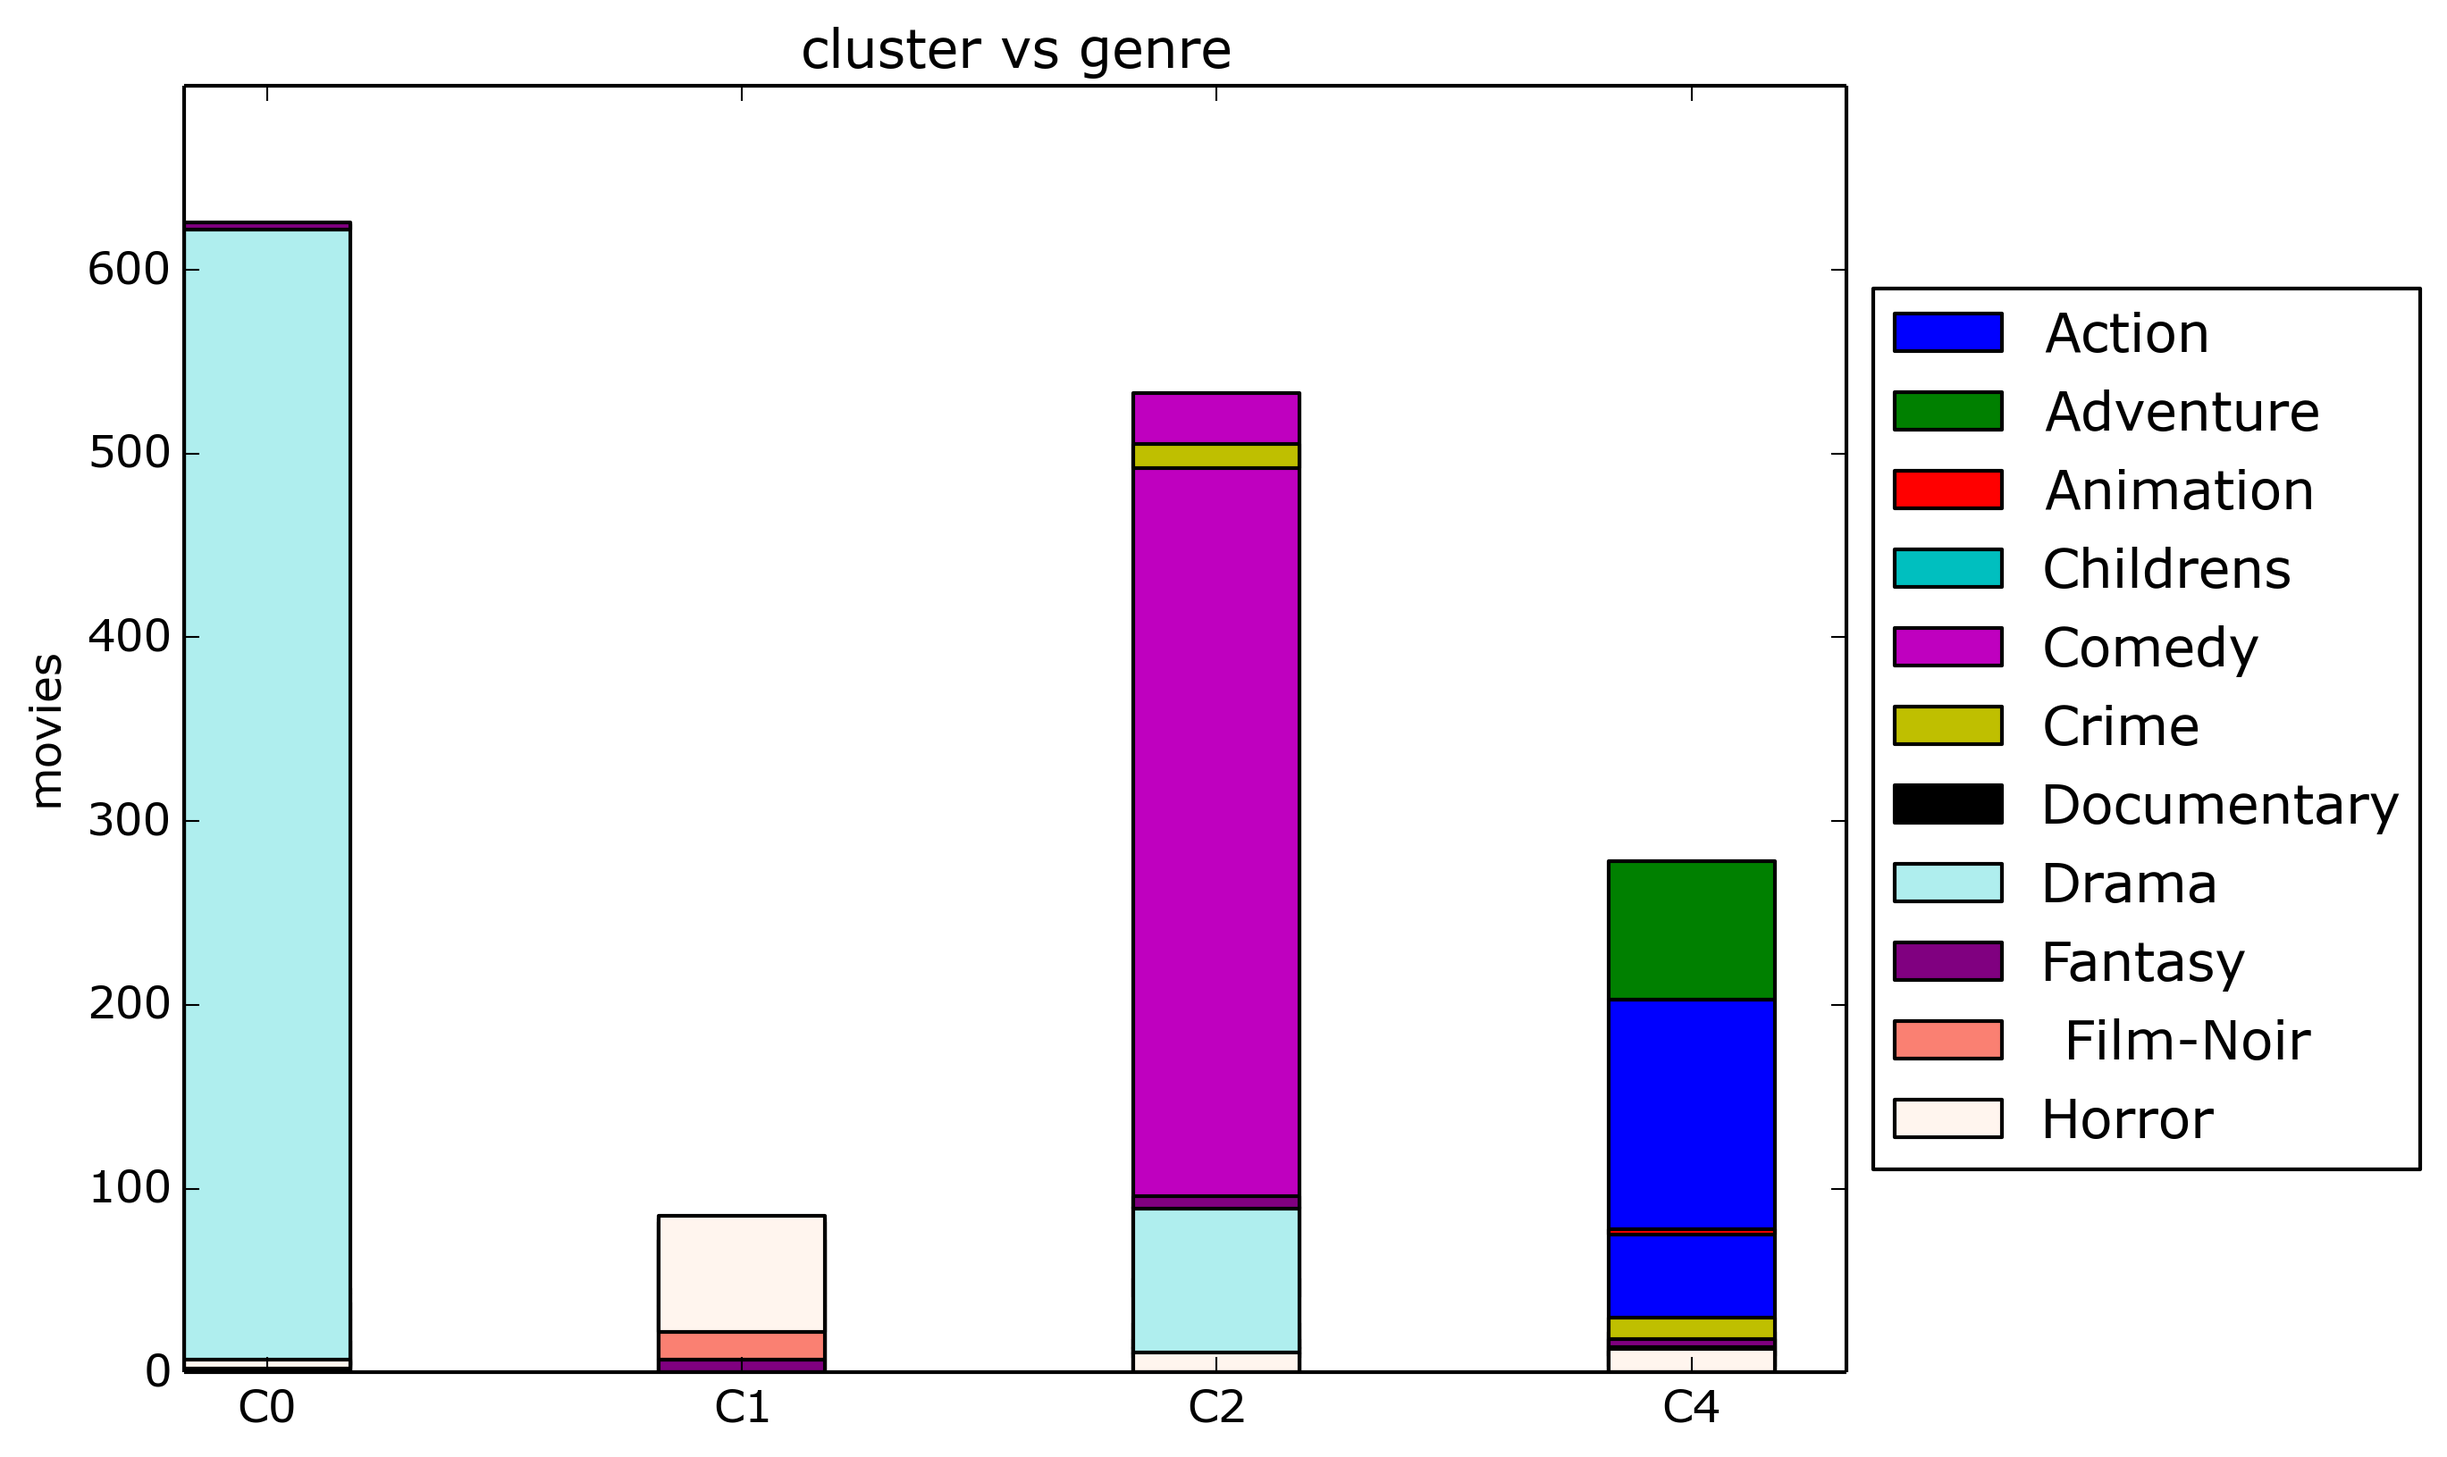
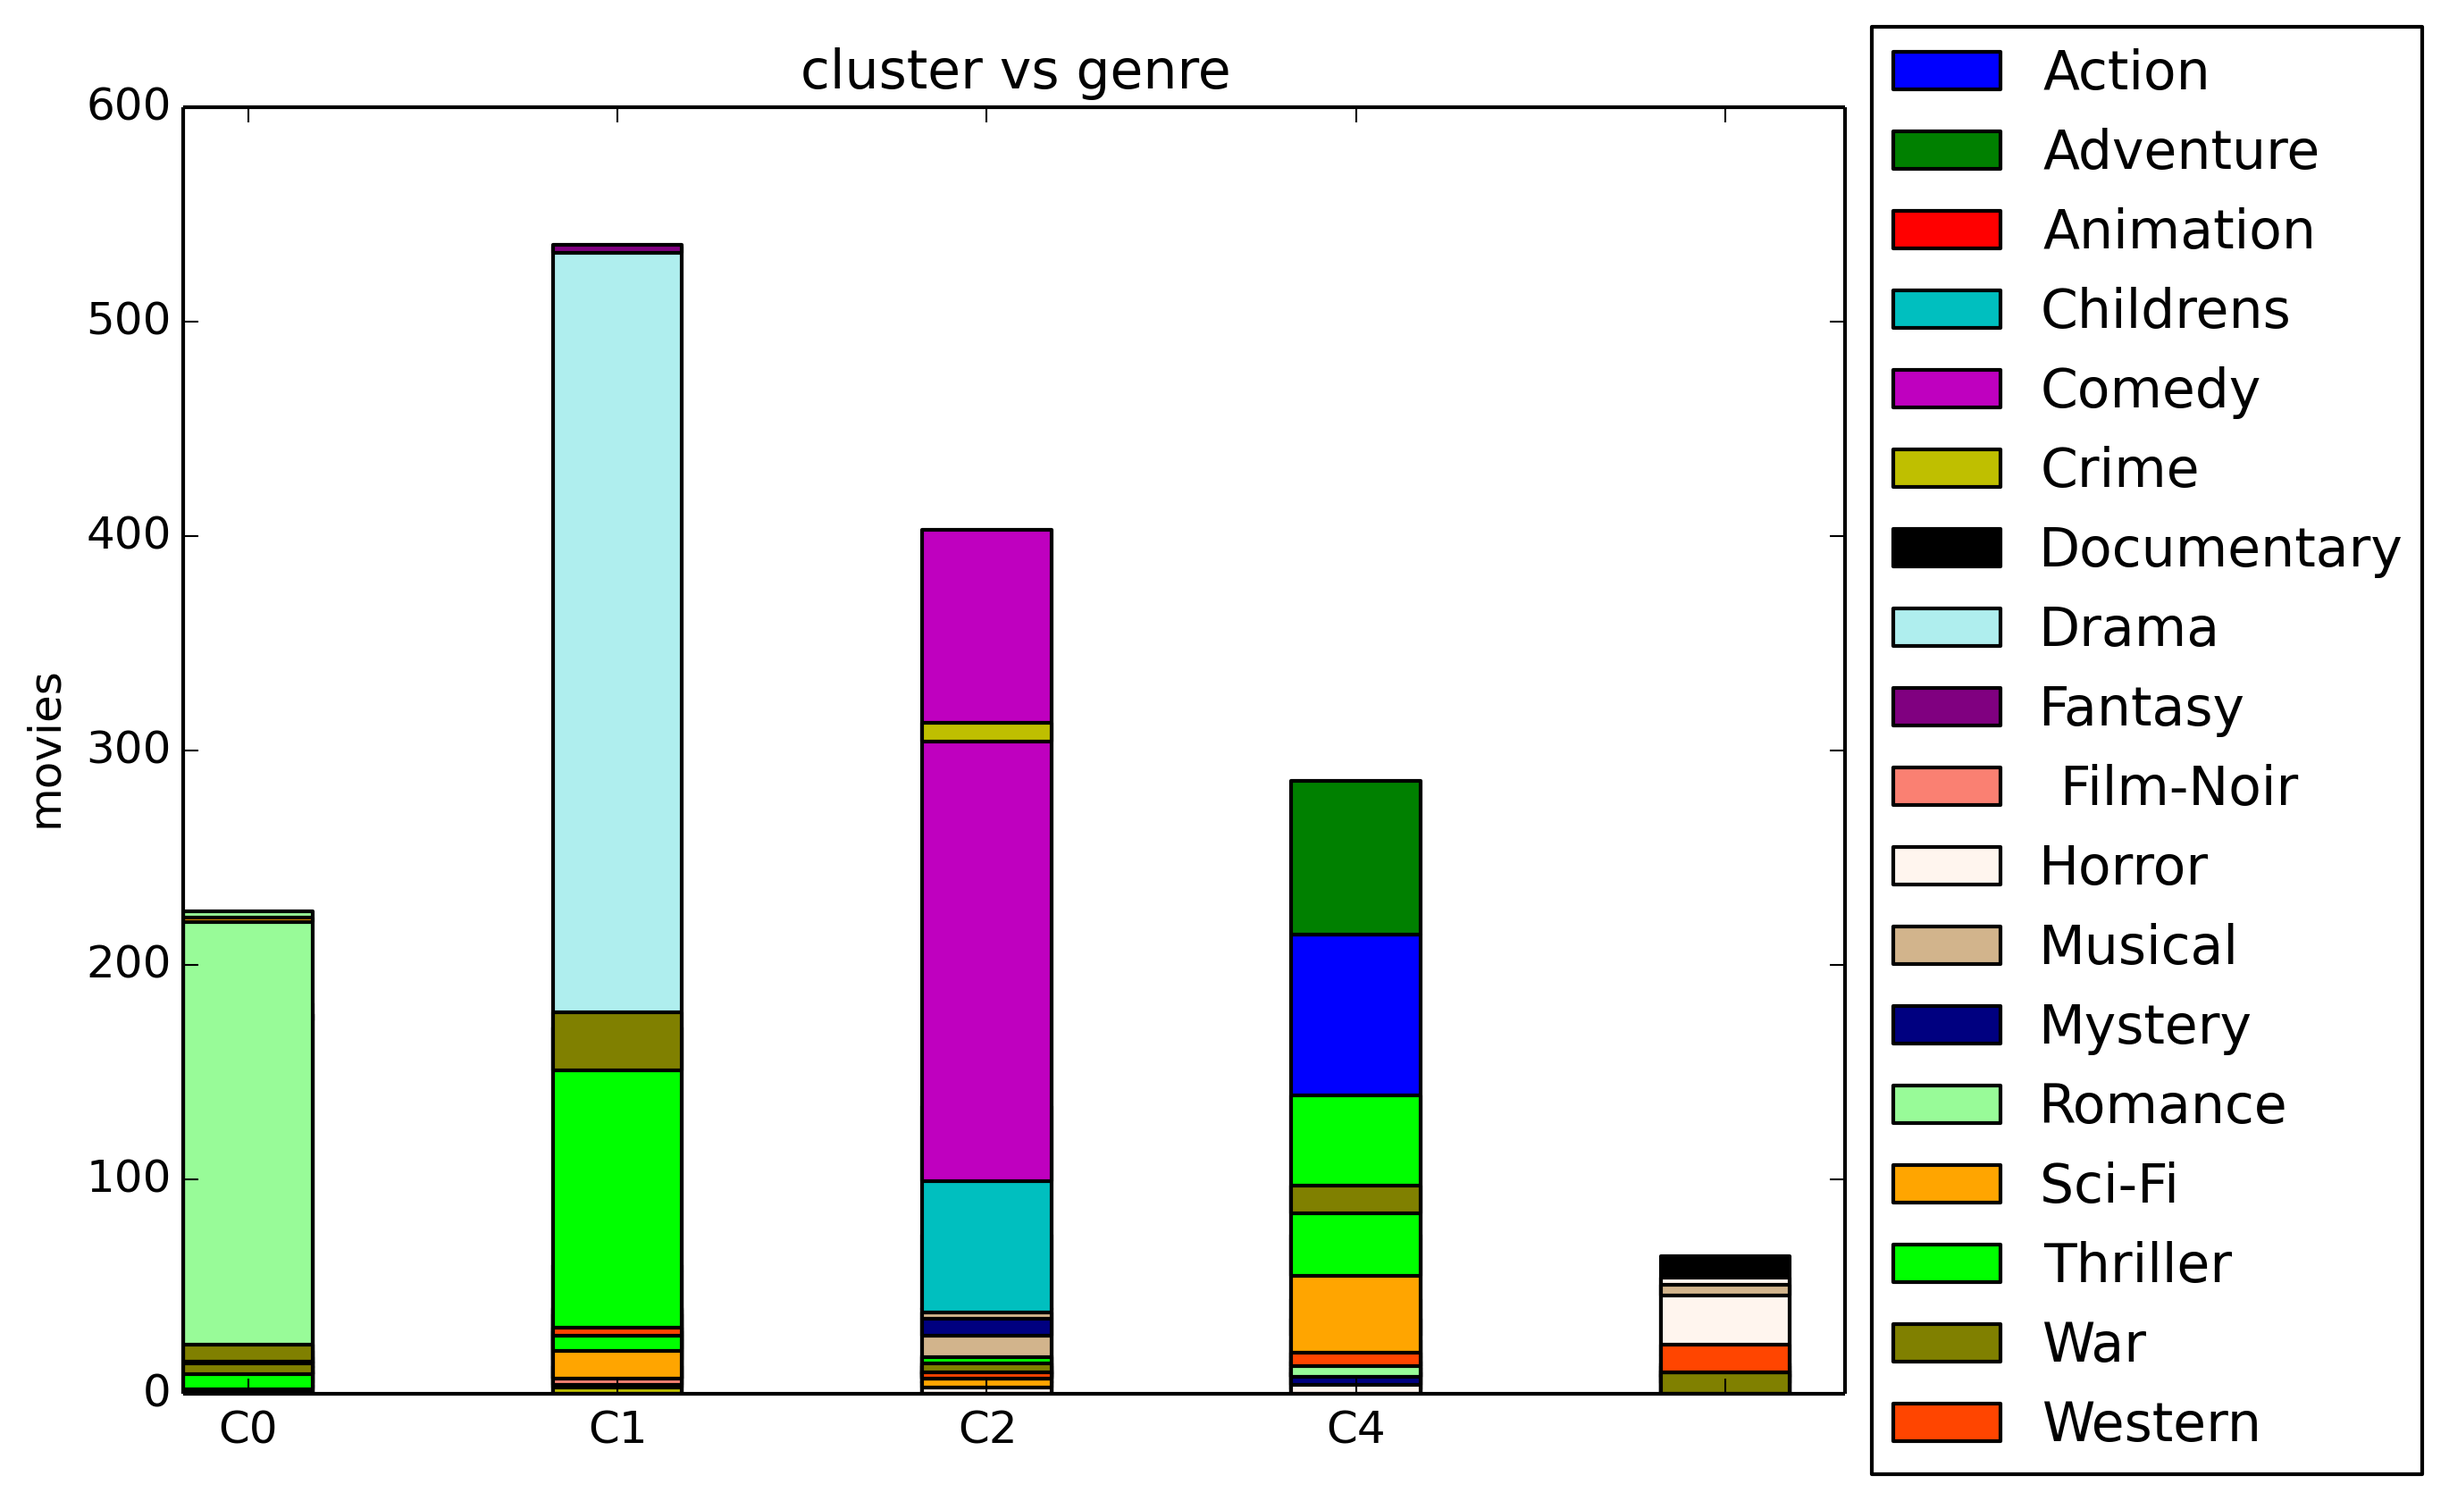
minor changes

diff --git a/utils.py b/utils.py
@@ -3,7 +3,7 @@ import datetime
 import pandas as pd
 import numpy as np
 
-def alspostprocess(data, prediction, user_features, movie_features, n_features=10):
+def alspostprocess(data, prediction, features, user_features, movie_features, n_features=10):
     """
     Adds ALS values obtained from ALS decomposition of ratings matrix as
     feature to dataFrame.
@@ -27,29 +27,7 @@ def alspostprocess(data, prediction, user_features, movie_features, n_features=1
     
     features : List of feature names to be used for further modelling
     """
-    categorical_variables = ["gender", "occupation"]
-    for variable in categorical_variables:
-        dummies = pd.get_dummies(data[variable], prefix=variable)
-        data = pd.concat([data, dummies], axis=1)
-        data.drop([variable], axis=1, inplace=True)
-    data['movieID'] = data['movieID'].astype('int')
-    data['userID'] = data['userID'].astype('int')
     
-    features = [ u'timestamp', u'age',
-           u'unknown', u'Action',
-           u'Adventure', u'Animation', u'Childrens', u'Comedy', u'Crime',
-           u'Documentary', u'Drama', u'Fantasy', u' Film-Noir', u'Horror',
-           u'Musical', u'Mystery', u'Romance', u'Sci-Fi', u'Thriller', u'War',
-           u'Western', u'year', u'month', u'day', u'hour', u'weekday',
-           u'releaseYear', u'yearDiff', u'gender_F', u'gender_M',
-           u'occupation_administrator', u'occupation_artist', u'occupation_doctor',
-           u'occupation_educator', u'occupation_engineer',
-           u'occupation_entertainment', u'occupation_executive',
-           u'occupation_healthcare', u'occupation_homemaker', u'occupation_lawyer',
-           u'occupation_librarian', u'occupation_marketing', u'occupation_none',
-           u'occupation_other', u'occupation_programmer', u'occupation_retired',
-           u'occupation_salesman', u'occupation_scientist', u'occupation_student',
-           u'occupation_technician', u'occupation_writer']
 
     data['ALS'] = prediction[data.loc[:, 'userID']-1, data.loc[:, 'movieID']-1]
     features.append('ALS')
@@ -138,13 +116,23 @@ def cleanData(data):
     """
     Pre-process the data. Variable type changes, missing value removal etc.
     """
-    data = data.drop(data.index[[2172, 3781, 7245, 12475, 14756, 15292, 49295, 93523, 99723]],axis=0,inplace=False)
+    
+    indexes = data.index[pd.isnull(data["release date"])]
+#    data = data.drop(data.index[[2172, 3781, 7245, 12475, 14756, 15292, 49295, 93523, 99723]],axis=0,inplace=False)
+    data = data.drop(indexes,axis=0,inplace=False)
     data = data.drop(["video release date", 'IMDb URL'],axis=1)
     
-    data.userID = data.userID.astype("category")
-    data.movieID = data.movieID.astype("category")
+    
     data.gender = data.gender.astype("category")
     data.occupation = data.occupation.astype("category")
+    
+    categorical_variables = ["gender", "occupation"]
+    for variable in categorical_variables:
+        dummies = pd.get_dummies(data[variable], prefix=variable)
+        data = pd.concat([data, dummies], axis=1)
+        data.drop([variable], axis=1, inplace=True)
+    data['movieID'] = data['movieID'].astype('int')
+    data['userID'] = data['userID'].astype('int')
     
 	#data = dateTime(data)
     

diff --git a/code.py b/code.py
@@ -25,28 +25,46 @@ ratingData,movieData,userData = importData("/home/rsk/Documents/RecommenderProje
 
 data = pd.merge(ratingData,userData,how="left",on="userID")
 data = pd.merge(data,movieData,how="left",on="movieID")
-
+#%%
 data = cleanData(data)  #removes unneccesary rows and columns
 data = dateTime(data)
 
-data.head()
 
-#%%
+features = [ u'timestamp', u'age',
+           u'unknown', u'Action',
+           u'Adventure', u'Animation', u'Childrens', u'Comedy', u'Crime',
+           u'Documentary', u'Drama', u'Fantasy', u' Film-Noir', u'Horror',
+           u'Musical', u'Mystery', u'Romance', u'Sci-Fi', u'Thriller', u'War',
+           u'Western', u'year', u'month', u'day', u'hour', u'weekday',
+           u'releaseYear', u'yearDiff', u'gender_F', u'gender_M',
+           u'occupation_administrator', u'occupation_artist', u'occupation_doctor',
+           u'occupation_educator', u'occupation_engineer',
+           u'occupation_entertainment', u'occupation_executive',
+           u'occupation_healthcare', u'occupation_homemaker', u'occupation_lawyer',
+           u'occupation_librarian', u'occupation_marketing', u'occupation_none',
+           u'occupation_other', u'occupation_programmer', u'occupation_retired',
+           u'occupation_salesman', u'occupation_scientist', u'occupation_student',
+           u'occupation_technician', u'occupation_writer']
+
+#%%##### ALS #############
+
 print('Splitting data.')    
 train,test = train_test_split(data,test_size=0.2,random_state=1)
 test_mat, train_mat = alspreprocess(ratingData, test, train)
-#%%
+
 print('Running ALS.')
 prediction,user_features,movie_features = als(train_mat,n_factors = 8,n_iterations = 2, lambda_ = 10)
 testRMSE = RMSE_matrix(prediction, test_mat)
 trainRMSE = RMSE_matrix(prediction, train_mat)
 print "ALS\nTrain RMSE : %f  Test RMSE : %f"%(trainRMSE, testRMSE)
+
+data, features = alspostprocess(data, prediction, features, user_features, movie_features,n_features=4)
+
 #%%
 
 
-processedData, features = alspostprocess(data, prediction, user_features, movie_features,n_features=4)
-#%%
-train,test = train_test_split(processedData,test_size=0.2,random_state=1)
+           
+train,test = train_test_split(data,test_size=0.2,random_state=1)
 ytrain = train.pop('rating')
 ytest = test.pop('rating')
 

diff --git a/clustering.py b/clustering.py
@@ -3,11 +3,11 @@ from sklearn.cluster import KMeans
 import numpy as np
 import matplotlib.pyplot as plt
 
-ratingData,movieData,userData = importData("/home/satvik/Analytics/Recommender Project/")
+ratingData,movieData,userData = importData("/home/rsk/Documents/RecommenderProject/")
 
 movieData = movieData.drop(["video release date", 'IMDb URL','movieID','movie title','release date','unknown'],axis=1)
 #%%
-num_clusters=4
+num_clusters=5
 clust = KMeans(n_clusters=num_clusters,max_iter=300,n_init=200,n_jobs=-1)
 clust = clust.fit_predict(movieData)
 
@@ -27,7 +27,7 @@ womenMeans = M[:,1]
 
 ind = np.arange(N)    # the x locations for the groups
 width = 0.35       # the width of the bars: can also be len(x) sequence
-colors = ['b','g','r','c','m','y','k','paleturquoise','purple','salmon','seashell','tan'
+colors = ['b','g','r','c','m','y','k','paleturquoise','purple','salmon','seashell','tan',
             'navy','palegreen','orange','lime','olive','orangered']
 p=[]
 
@@ -36,7 +36,7 @@ for i in range(18):
         p.append(plt.bar(ind, M[:,i], width,color=colors[i]))
     else:
         p.append(plt.bar(ind, M[:,i], width,bottom= M[:,i-1],color=colors[i]))
-
+#%%
 plt.ylabel('movies')
 plt.title('cluster vs genre')
 plt.xticks(ind + width/2., ('C0','C1','C2','C4'))
